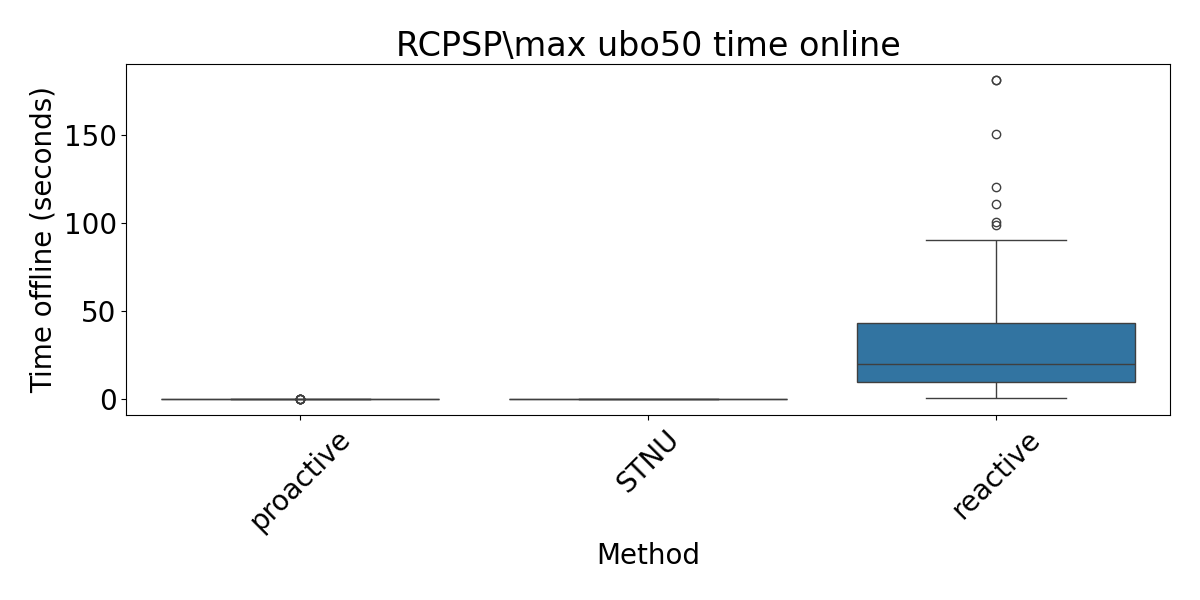
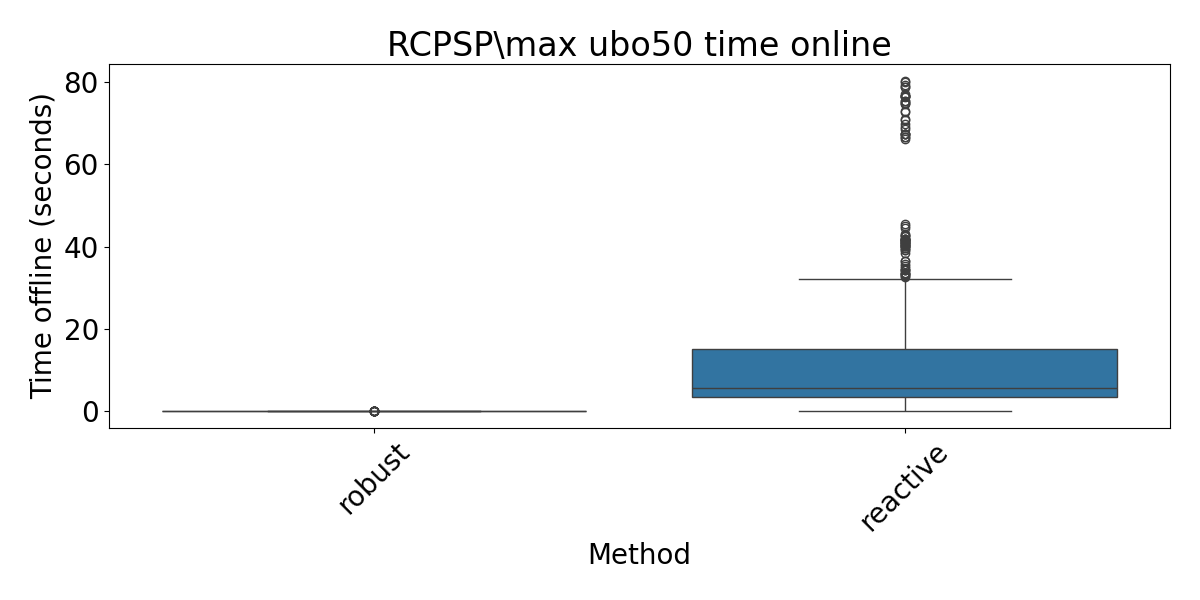
aggregate results robust vs reactive

diff --git a/experiments/aaai25_experiments/aggregate_results.py b/experiments/aaai25_experiments/aggregate_results.py
@@ -3,62 +3,59 @@ import numpy as np
 import pandas as pd
 import seaborn as sns
 
-for instance_folder in ["j10", "j20", "j30", "ubo50", "ubo100"]:
+for instance_folder in ["j10", "j20", "j30", "ubo50"]:
     # Read the CSV files into DataFrames
-    df = pd.read_csv(f'experiments/aaai25_experiments/results/results_proactive_{instance_folder}.csv')
-    print(f'Number of experiments {instance_folder} proactive {len(df)}')
-    df = df[df['obj_pi'] != np.inf]
-    print(f'Number of pi feasible instances {instance_folder} proactive {len(df)}')
+    df = pd.read_csv(f'experiments/aaai25_experiments/results/new_results_robust_{instance_folder}.csv')
+    print(f'Number of experiments {instance_folder} robust {len(df)}')
+    df = df[df['obj'] != np.inf]
+    print(f'Number of feasible instances {instance_folder} robust {len(df)}')
 
-    df = pd.read_csv(f'experiments/aaai25_experiments/results/results_stnu_{instance_folder}.csv')
+    df = pd.read_csv(f'experiments/aaai25_experiments/results/new_results_stnu_{instance_folder}.csv')
     print(f'Number of experiments {instance_folder} stnu {len(df)}')
-    df = df[df['obj_pi'] != np.inf]
-    print(f'Number of pi feasible instances {instance_folder} stnu {len(df)}')
-    df = pd.read_csv(f'experiments/aaai25_experiments/results/results_reactive_{instance_folder}.csv')
+    df = df[df['obj'] != np.inf]
+    print(f'Number of feasible instances {instance_folder} stnu {len(df)}')
+    df = pd.read_csv(f'experiments/aaai25_experiments/results/new_results_reactive_{instance_folder}.csv')
     print(f'Number of experiments {instance_folder} reactive {len(df)}')
-    df = df[df['obj_pi'] != np.inf]
-    print(f'Number of pi feasible instances {instance_folder} reactive {len(df)}')
+    df = df[df['obj'] != np.inf]
+    print(f'Number of feasible instances {instance_folder} reactive {len(df)}')
 
 
-for instance_folder in ["j10", "j20", "j30", "ubo50", "ubo100"]:
+for instance_folder in ["j10", "j20", "j30", "ubo50"]:
     # Read the CSV files into DataFrames
-    df1 = pd.read_csv(f'experiments/aaai25_experiments/results/results_proactive_{instance_folder}.csv')
-    df2 = pd.read_csv(f'experiments/aaai25_experiments/results/results_stnu_{instance_folder}.csv')
-    df3 = pd.read_csv(f'experiments/aaai25_experiments/results/results_reactive_{instance_folder}.csv')
+    df1 = pd.read_csv(f'experiments/aaai25_experiments/results/new_results_robust_{instance_folder}.csv')
+    #df2 = pd.read_csv(f'experiments/aaai25_experiments/results/new_results_stnu_{instance_folder}.csv')
+    df3 = pd.read_csv(f'experiments/aaai25_experiments/results/new_results_reactive_{instance_folder}.csv')
+    #df4 = pd.read_csv(f'experiments/aaai25_experiments/results/new_results_proactive_{instance_folder}.csv')
     # Combine the DataFrames
-    combined_df = pd.concat([df1, df2, df3])
+    combined_df = pd.concat([df1, df3], ignore_index=True)
     combined_df['total_time'] = combined_df['time_offline'] + combined_df['time_online']
-    print(3*50*10)
+
     print(f'Total number of experiments for instance folder {instance_folder} {len(combined_df)}')
 
     # Remove the instances for which the PI problem was infeasible
-    combined_df = combined_df[combined_df['obj_pi'] != np.inf]
+    #combined_df = combined_df[combined_df['obj_pi'] != np.inf]
     print(f'Total number of experiments after removing non-pi-feasible instances {len(combined_df)}')
 
     print(len(combined_df))
-    combined_df['rel_regret'] = pd.to_numeric(combined_df['rel_regret'], errors='coerce')
-    print(len(combined_df))
-    combined_df = combined_df.dropna(subset=['rel_regret'])
 
-    print(len(combined_df))
     # Group by "instance" and "method" and calculate the average "rel_regret"
     aggregated_df = combined_df.groupby(['method']).agg(
-        rel_regret=('rel_regret', 'mean'),
+        rel_regret=('obj', 'mean'),
     ).reset_index()
 
     # Save the aggregated results to a new CSV file (optional)
-    aggregated_df.to_csv(f'experiments/aaai25_experiments/results/aggregated_results_{instance_folder}.csv',
+    aggregated_df.to_csv(f'experiments/aaai25_experiments/results/new_aggregated_results_{instance_folder}.csv',
                          index=False)
 
     # Group by "instance" and "method" and calculate the average "rel_regret"
     combined_df_only_feasible = combined_df[combined_df['obj'] != np.inf]
     combined_df_only_feasible = combined_df_only_feasible[combined_df_only_feasible['obj'] != np.inf]
     aggregated_df = combined_df_only_feasible.groupby(['instance_id', 'method', 'real_durations']).agg(
-        rel_regret=('rel_regret', 'mean'),
+        rel_regret=('obj', 'mean'),
     ).reset_index()
 
     # Save the aggregated results to a new CSV file (optional)
-    aggregated_df.to_csv(f'experiments/aaai25_experiments/results/aggregated_results_per_instance_{instance_folder}.csv', index=False)
+    aggregated_df.to_csv(f'experiments/aaai25_experiments/results/new_aggregated_results_per_instance_{instance_folder}.csv', index=False)
 
     # Print the aggregated DataFrame
     print(aggregated_df)
@@ -66,13 +63,13 @@ for instance_folder in ["j10", "j20", "j30", "ubo50", "ubo100"]:
     # Plotting the results on relative regret
     plt.figure(figsize=(12, 6))
     plt.rcParams.update({'font.size': 20})
-    sns.boxplot(x='method', y='rel_regret', data=combined_df)
-    plt.title(f'RCPSP\max {instance_folder} Relative Regret')
+    sns.boxplot(x='method', y='obj', data=combined_df)
+    plt.title(f'RCPSP\max {instance_folder} Objective')
     plt.xlabel('Method')
-    plt.ylabel('Average Relative Regret')
+    plt.ylabel('Average Objective (Makespan)')
     plt.xticks(rotation=45)
     plt.tight_layout()
-    plt.savefig(f'experiments/aaai25_experiments/figures/relative_regret_{instance_folder}.png')
+    plt.savefig(f'experiments/aaai25_experiments/figures/objective_{instance_folder}.png')
 
     # Plotting the results on offline runtime
     plt.figure(figsize=(12, 6))
@@ -144,13 +141,13 @@ for instance_folder in ["j10", "j20", "j30", "ubo50", "ubo100"]:
     # Plot relative regret when not including the infeasible ones:
     filtered_df = combined_df[combined_df['obj'] != np.inf]
     aggregated_df = filtered_df.groupby(['method']).agg(
-        rel_regret=('rel_regret', 'mean'),
+        obj=('obj', 'mean'),
     ).reset_index()
     plt.figure(figsize=(12, 6))
-    sns.boxplot(x='method', y='rel_regret', data=filtered_df)
-    plt.title(f'RCPSP\max {instance_folder} Rel Regret on Feasible Solutions')
+    sns.boxplot(x='method', y='obj', data=filtered_df)
+    plt.title(f'RCPSP\max {instance_folder} Objective on Feasible Solutions')
     plt.xlabel('Instance')
-    plt.ylabel('Relative regret on feasible solutions')
+    plt.ylabel('Objective on feasible solutions')
     plt.xticks(rotation=45)
     plt.tight_layout()
-    plt.savefig(f'experiments/aaai25_experiments/figures/filtered_relative_regret_{instance_folder}.png')
+    plt.savefig(f'experiments/aaai25_experiments/figures/filtered_objective_{instance_folder}.png')

diff --git a/experiments/aaai25_experiments/pairwise_comparison/example_ranksums.py b/experiments/aaai25_experiments/pairwise_comparison/example_ranksums.py
@@ -6,16 +6,19 @@ import networkx as nx
 import matplotlib.pyplot as plt
 from scipy.stats import ttest_ind
 
-
+data = []
 # Load data from a CSV file
-for instance_folder in ["j20"]:
+for instance_folder in ["j10", "j20", "j30", "ubo50"]:
     # Read the CSV files into DataFrames
-    df1 = pd.read_csv(f'experiments/aaai25_experiments/results/results_proactive_{instance_folder}.csv')
-    df2 = pd.read_csv(f'experiments/aaai25_experiments/results/results_stnu_{instance_folder}.csv')
-    df3 = pd.read_csv(f'experiments/aaai25_experiments/results/results_reactive_{instance_folder}.csv')
+    df1 = pd.read_csv(f'experiments/aaai25_experiments/results/new_results_robust_{instance_folder}.csv')
+    df2 = pd.read_csv(f'experiments/aaai25_experiments/results/new_results_reactive_{instance_folder}.csv')
+    #df3 = pd.read_csv(f'experiments/aaai25_experiments/results/results_reactive_{instance_folder}.csv')
+    data = data + [df1, df2]
     # Combine the DataFrames
-    data = pd.concat([df1, df2, df3])
-    data['total_time'] = data['time_offline'] + data['time_online']
+
+data = pd.concat(data, ignore_index=True)
+
+data['total_time'] = data['time_offline'] + data['time_online']
     # TODO: PI is not niet goed geimplementeerd
     #data = data[data['obj_pi'] != np.inf]
     #data.replace(["inf"], 99999, inplace=True)
@@ -26,7 +29,6 @@ for instance_folder in ["j20"]:
 G = nx.DiGraph()
 methods = data['method'].unique()
 G.add_nodes_from(methods)
-
 
 # Generate all possible pairs of methods
 method_pairs = list(itertools.combinations(methods, 2))
